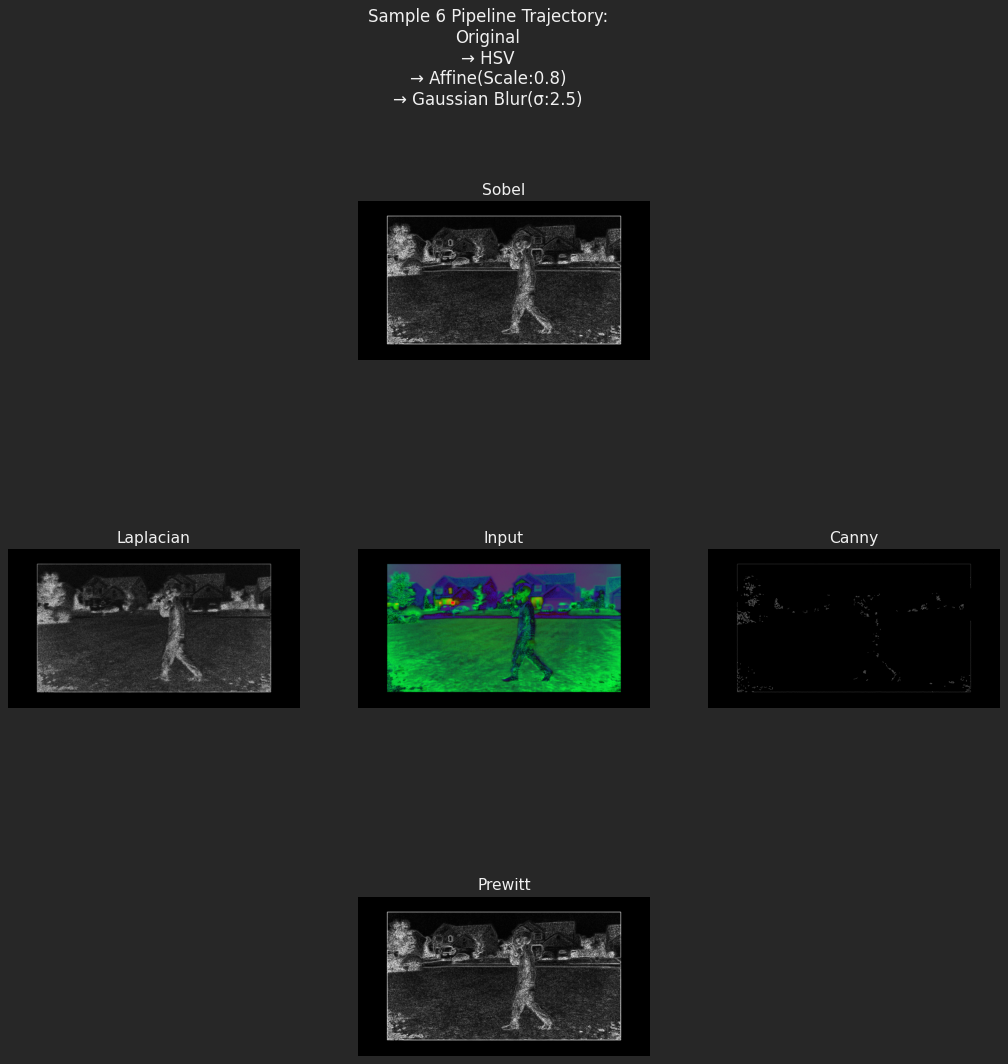
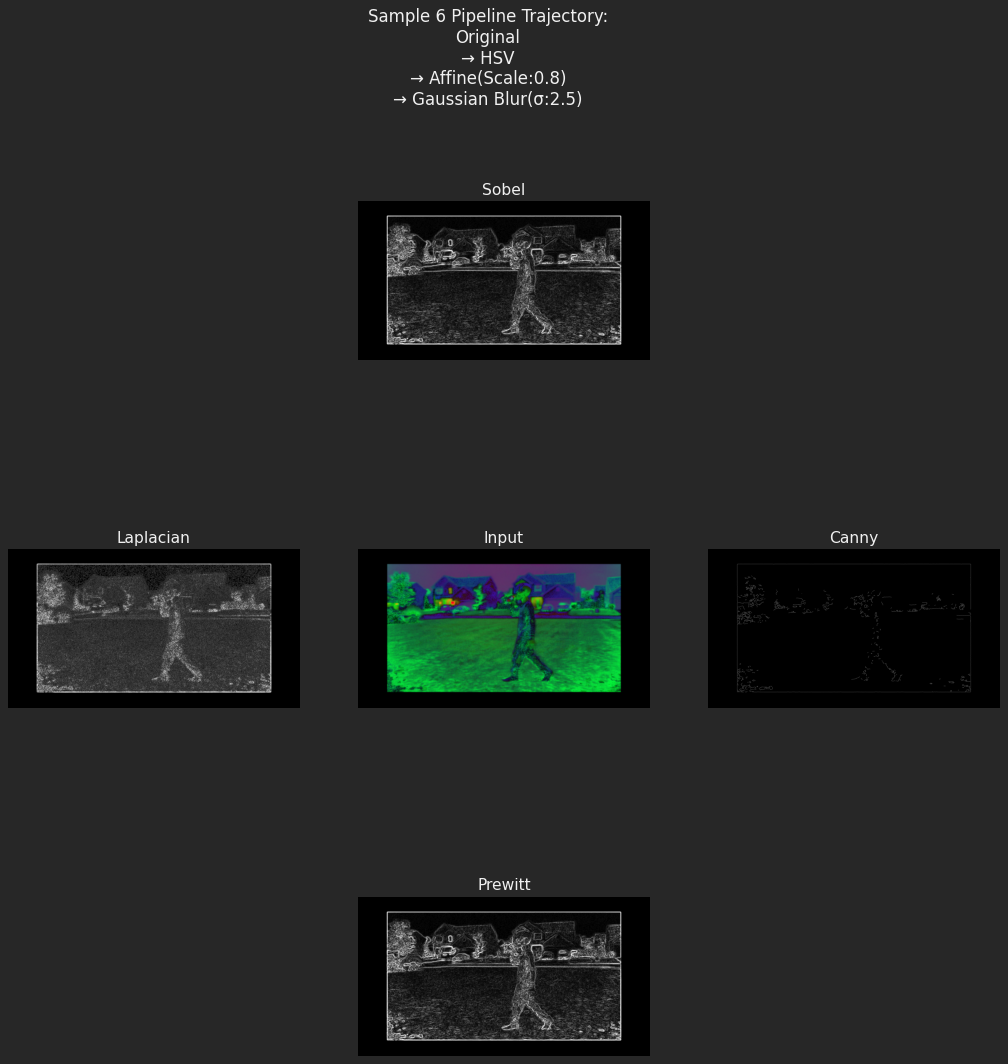
Adjusted Canny and Gaussian to make parameters dynamic (Thresholds and Kernel Size), Added all requested images/plots as well as some extras to aid in discussion and results. Updated README and TODO.

diff --git a/part02/gaussian_blur.py b/part02/gaussian_blur.py
@@ -47,7 +47,8 @@ def gaussian_kernel_1d(sigma, kernel_size=5):
 
 def gaussian_blur(img, sigma):
     """[3] Apply Gaussian blur to an image in 2 convolutions."""
-    k = gaussian_kernel_1d(sigma)
+    # The kernel was dynamized to the 3-sigma rule (a good enough heuristic) to make the blur more visually distinct at higher sigmas.
+    k = gaussian_kernel_1d(sigma, kernel_size=2 * int(np.ceil(3 * sigma)) + 1)
     out = img.astype(np.float64)
     # vertical
     out = convolve1d(out, k, axis=0)

diff --git a/part03/edge_detection.py b/part03/edge_detection.py
@@ -88,7 +88,12 @@ def laplacian_edges(gray):
 
 
 def canny_edges(gray):
-    return cv2.Canny(gray, 100, 200)
+    # Converted to Adaptive Thresholds. Fixed bounds were generating completely black frames.
+    v = float(np.median(gray))
+    sigma = 0.33
+    lo = int(max(0, (1.0 - sigma) * v))
+    hi = int(min(255, (1.0 + sigma) * v))
+    return cv2.Canny(gray, lo, hi)
 
 
 def prewitt_edges(gray):

diff --git a/README.md b/README.md
@@ -48,23 +48,116 @@ bash ./run_full_pipeline.sh
 python3 part02/basic_statistics.py
 ```
 
+## Results and Discussion:
+
+### Part 2:
+
+**Image Metadata**
+
+| Statistic | Value |
+| --- | --- |
+| Image Shape: | (1536, 2816, 3) |
+| Data Type: | uint8 |
+| Number of Channels: | 3 |
+| Total Pixels: | 12976128 |
+
+
+**Channel Statistics**
+
+| Statistic | Blue Value | Green Value | Red Value |
+| --- | --- | --- | --- |
+|Min:|0|0|0|
+|Max:|255|255|255|
+|Mean:|21.83|24.64|20.61|
+|Median:|10.00|16.00|12.00|
+|Mode:|4|10|4|
+|Range:|255|255|255|
+|Std Dev:|26.23|22.23|22.46|
+|Variance:|687.99|493.96|504.26|
+|Skew:|1.68|1.76|2.11|
+
+From the statistics, we can see that the image is about 13MP, and the channel with the greatest variance is blue. The mean values all sit in the low 20s which is very low in the total range, despite the full uint8 range being used. That suggests to me that the image is dark as a result of being underexposed.
+
+**NOTE:** The full set of generated images are not packaged with this repo to preserve space; they can easily be generated in about 3 minutes with the run_full_pipeline.sh script.
+
+**Gaussian Blur:**
+
+For this step I manually implemented Gaussian Blur for my understanding. I implemented it as a separable 2-pass 1D kernel. This reduces compute per kernel to O(2k) vs single pass 2D kernel compute of O(k^2).
+
+The kernel size was originally hard coded to 5, after starting to write this discussion I noticed that the sigma value was not exhibiting the trait I was expecting. The kernel size was subsequently dynamized to the 3-sigma rule 2⌈3σ⌉+1 and regenerated.
+
+Sigma was set to 0.5, 1.0, 1.5, 2.0, 2.5, 3.0, 3.5. These values of sigma and the kernel effect the edge preservation and span of the blur. Lower sigma values allowed distant neighboring values in the kernel to have a more profound effect on the relevant pixel (lower weight decay).
+
+**Example:**
+
+| Settings | Image |
+| --- | --- |
+| Normalized Blur Sigma 0.5 Kernel 5 | ![](assets/featured/normalized_blur_s0.5_k5.png) |
+| Normalized Blur Sigma 3.5 Kernel 5 | ![](assets/featured/normalized_blur_s3.5_k5.png) |
+| Normalized Blur Sigma 3.5 Kernel 23 | ![](assets/featured/normalized_blur_s3.5_k23.png) |
+
+| Normalized Blur Sigma 0.5 Kernel 5 Zoomed | Normalized Blur Sigma 3.5 Kernel 5 Zoomed | Normalized Blur Sigma 3.5 Kernel 23 Zoomed |
+| --- | --- | --- |
+| ![](assets/featured/normalized_blur_s0.5_k5_zoomed.png) | ![](assets/featured/normalized_blur_s3.5_k5_zoomed.png) | ![](assets/featured/normalized_blur_s3.5_k23_zoomed.png) |
+
+Notice the reduction in noise between Sigma 3.5 K5 and K23. The image is much smoother, despite not losing significant edge definition. I will illustrate the kernel size relevance further during edge detection.
+
+### Part 3: 
+
+Without any semblance of a doubt Canny was NOT the edge detection that was appropriate for this image. I tuned Canny per-image after an initial run with static values, and it still performed poorly with nearly all of the generated images. The best class of image were the normalized and blurred images since it works by thresholding intensities.
+
+The results between sobel and prewitt tracked one another so closely it is hard to name a clear winner; both performed very well on the high sigma normalized images the best when values were higher.
+
+Laplacian also seemed to do best with the normalized high sigma images, but didn't generate coherent edges on most other color spaces.
+
+| Settings | Image |
+| --- | --- |
+| Normalized Blur Sigma 0.5 Kernel 5 | ![](assets/featured/sobel_normalized_blur_s0.5_k5.png) |
+| Normalized Blur Sigma 3.5 Kernel 5 | ![](assets/featured/sobel_normalized_blur_s3.5_k5.png) |
+| Normalized Blur Sigma 3.5 Kernel 23 | ![](assets/featured/sobel_normalized_blur_s3.5_k23.png) |
+
+Above is the previously discussed performance comparison of various kernel size/sigma combinations. Higher sigma values performed better than lower, presumably due to its ability to filter noise while preserving edge features. Appropriately sizing the kernel amplified this result by filtering over a larger area, leading to an overall smoother surface texture.
+
+|hls_blur_s1.5|
+| --- |
+|![](assets/featured/hls_blur_s1.5.png)|
+
+|hsv_blur_s2.5|
+| --- |
+|![](assets/featured/hsv_blur_s2.5.png)|
+
+|hsv_scale_0.8_blur_s2.5|
+| --- |
+|![](assets/featured/hsv_scale_0.8_blur_s2.5.png)|
+
+|hsv_shear_x_0.10_blur_s2.0|
+| --- |
+|![](assets/featured/hsv_shear_x_0.10_blur_s2.0.png)|
+
+|lab_translate_150_neg100_blur_s1.0|
+| --- |
+|![](assets/featured/lab_translate_150_neg100_blur_s1.0.png)|
+
+|normalized_translate_neg100_neg80|
+| --- |
+|![](assets/featured/normalized_translate_neg100_neg80.png)|
 
 ## TODO:
 - [x] Add project title, author, course
 - [x] Include brief project overview and "alien image" context
 - [x] Add **Setup & Installation** section
 - [x] Add **Usage/Execution** section
-- [ ] **Results - Part 2**:
-  - [ ] Image statistics table for original channels
-  - [ ] Show/save examples of greyscale/binary/color spaces + normalized RGB
-  - [x] Affine transformations summary + sample images
-  - [ ] Gaussian blur discussion + examples for different sigma values
-- [ ] **Results - Part 3**:
+- [x] **Results - Part 2**:
+  - [x] Image statistics table for original channels
+  - [x] ~~Show/save examples of greyscale/binary/color spaces + normalized RGB~~ Not Required To Show
+  - [x] ~~Affine transformations summary + sample images~~ Not Required To Show
+  - [x] Gaussian blur discussion + examples for different sigma values
+- [x] **Results - Part 3**:
   - [x] Edge detection analysis (pros/cons + which worked best)
-  - [ ] Embed 6 random 5-image comparison plots
-  - [ ] Summary of total images generated
+  - [x] Embed 6 random 5-image comparison plots
+  - [x] Summary of total images generated
 - [x] Link to `AI_Log.md` and key AI-assisted parts
-- [ ] Add **Discussion/Conclusions** (key learnings, challenges, observations)
+- [x] ~~Add **Discussion/Conclusions** (key learnings, challenges, observations)~~ Not required and covered in results
 - [x] ~~Include table of contents for navigation~~ Not Required
 - [x] ~~Add badges (Python, OpenCV) and license if applicable~~ Not Required
 - [ ] Clean up. ~~: remove full assignment text or move to separate file; keep only relevant summary~~

diff --git a/AI_Log.md b/AI_Log.md
@@ -2,3 +2,5 @@
 | --- | --- | --- | --- | --- |
 | 20260613 0821 | https://github.com/codyfarlow1/CS898BA-HWOne<br>Give me a TODO list for my README file in GitHub markdown format. Be concise.| Grok | Generated overly comprehensive TODO list in markdown format | Trimmed content down and added to README.md to organize my assignment progress.<br>This will be removed during cleanup. |
 | 20260613 1511 | Asked for help with self depricating commit message to reflect my deep regret and need to re-evaluate decision making processes. | Grok | Generated boring commit messages that didn't accurately reflect my mood. | Used much more sarcastic commit message and verbally abused Grok. Mood substatially improved afterwards. |
+| 20260614 1901 | https://github.com/codyfarlow1/CS898BA-HWOne/blob/main/README.md <br>Read the assignment parameters. Have I covered everything in the instructions? Any polishes I should make without being nitpicky? | Copilot | Recommended several typo fixes (affect/effect), suggested I reword a few things to read better, found a stale sentence that conflicted after a refactor. | Implemented most of the changes suggested for readability and clarified the stale sentence regarding canny. |
+
